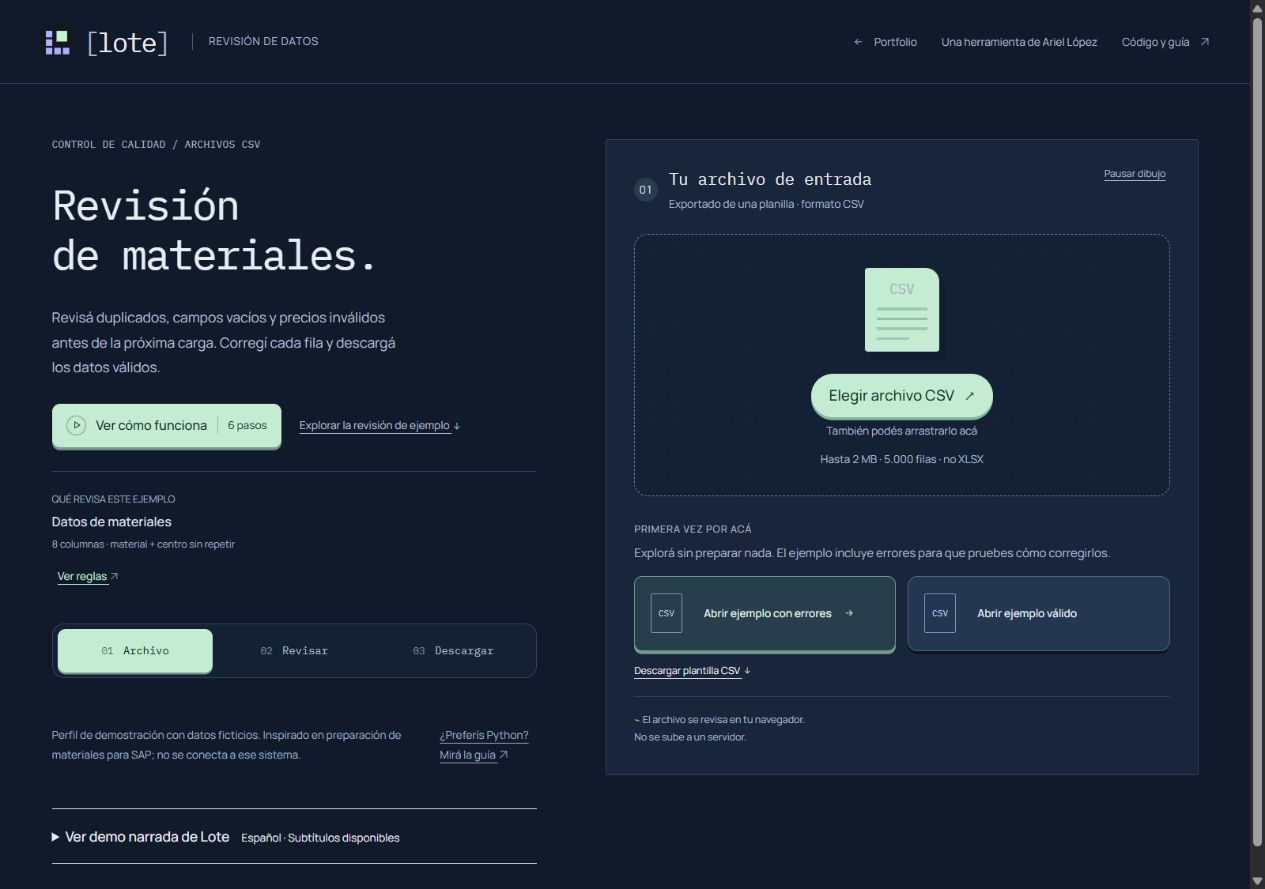
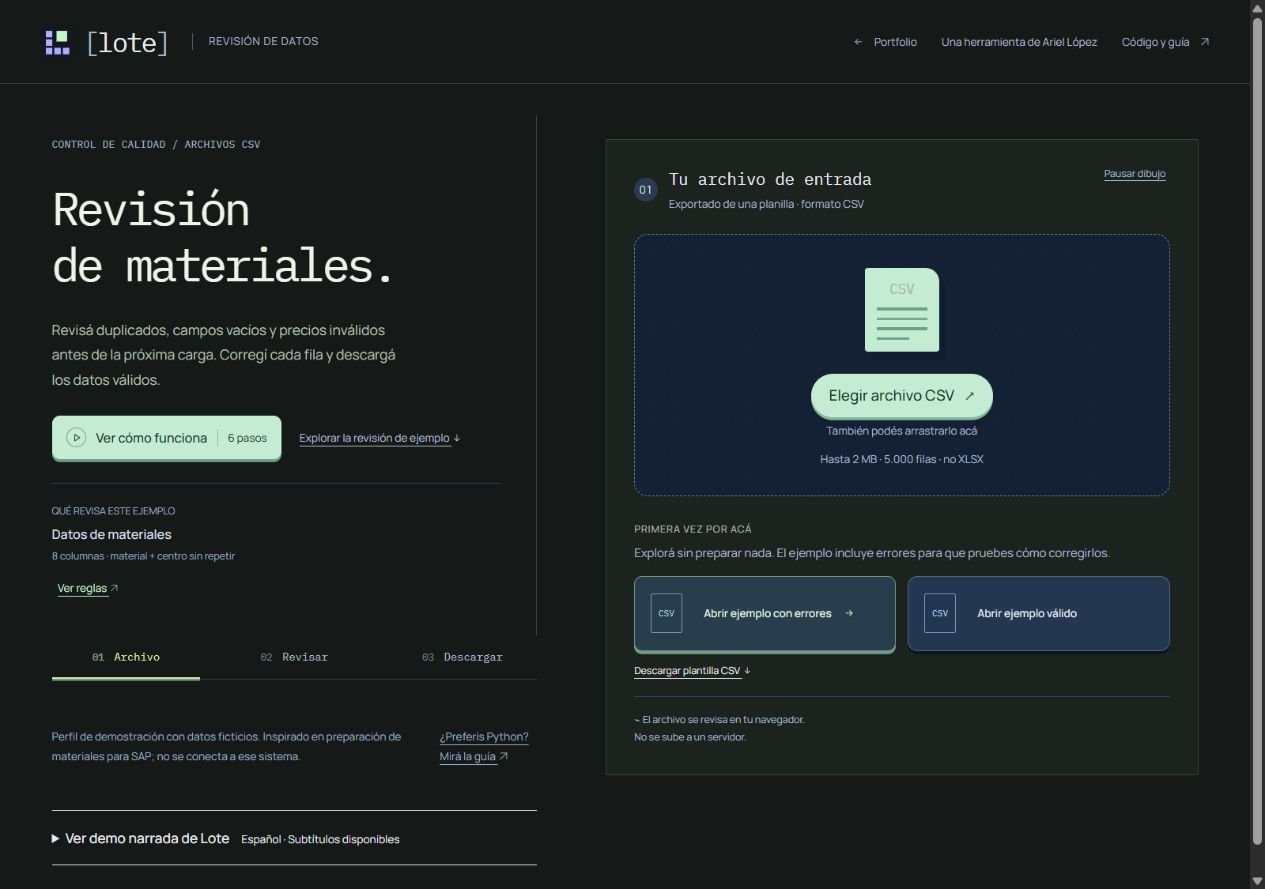
Give file inspection a charcoal and green workspace (#22)

diff --git a/product.css b/product.css
@@ -967,3 +967,103 @@ h3 {
     transform: none;
   }
 }
+
+/* File inspection: a neutral tool canvas, not an order dashboard. */
+:root,
+body {
+  background: #151917;
+  --ink: #e5e9df;
+  --muted: #a8b2a2;
+  --line: #3a443a;
+  --accent: #d0edac;
+}
+header {
+  background: #151917;
+  border-color: #3a443a;
+}
+body[data-review-step='upload'] .intro {
+  border-right: 1px solid #3a443a;
+  padding-right: 36px;
+}
+.intro h1 {
+  font-size: clamp(32px, 3.7vw, 49px);
+  letter-spacing: -0.075em;
+  color: #eff3e8;
+}
+.intro-explanation {
+  color: #b8c0b3;
+}
+.flow-nav {
+  background: transparent;
+  border: 0;
+  border-bottom: 1px solid #3a443a;
+  border-radius: 0;
+  padding: 0;
+  gap: 20px;
+}
+.flow-nav > button {
+  border-radius: 0;
+  padding: 14px 4px;
+  border-bottom: 2px solid transparent;
+}
+.flow-nav > button[aria-current='step'] {
+  background: transparent;
+  border-bottom-color: #d0edac;
+  color: #d0edac;
+}
+.upload-panel,
+.results-panel,
+.export-stage {
+  background: #1c221e;
+  border-color: #3a443a;
+  border-radius: 2px;
+  box-shadow: none;
+}
+.dropzone {
+  background: #151917;
+  border: 1px dashed #687b60;
+  border-radius: 0;
+}
+.sample-buttons button {
+  border-radius: 0;
+  background: #293329;
+  border-color: #4c5c46;
+  box-shadow: none;
+}
+.sample-buttons button::before {
+  background: #d0edac;
+  color: #202b1b;
+  border-radius: 0;
+}
+.batch-visual {
+  gap: 3px;
+}
+.batch-row {
+  border-radius: 0;
+}
+.batch-ready {
+  background: #243a25;
+  color: #d0edac;
+}
+.batch-blocked {
+  background: #422b28;
+  color: #efb09b;
+}
+.issues-table th {
+  font:
+    10px PlexMono,
+    monospace;
+  text-transform: uppercase;
+  letter-spacing: 0.06em;
+}
+@media (min-width: 1000px) {
+  body:not([data-review-step='upload']) main {
+    max-width: 1440px;
+  }
+}
+@media (max-width: 700px) {
+  body[data-review-step='upload'] .intro {
+    border: 0;
+    padding-right: 0;
+  }
+}

diff --git a/index.html b/index.html
@@ -19,15 +19,15 @@
     <link rel="stylesheet" href="style.css?v=20261101-type-1" />
     <link rel="stylesheet" href="tutorial.css?v=20261101-type-1" />
     <link rel="stylesheet" href="identity.css?v=20261101-type-1" />
-    <script type="module" src="src/app.js?v=20261101-controls-1"></script>
-    <link rel="stylesheet" href="direction.css?v=20261101-controls-1" />
+    <script type="module" src="src/app.js?v=20261101-editorial-1"></script>
+    <link rel="stylesheet" href="direction.css?v=20261101-editorial-1" />
     <link rel="stylesheet" href="video.css?v=20261101-type-1" />
-    <script type="module" src="src/brand-motion.js?v=20261101-controls-1"></script>
-    <link rel="stylesheet" href="brand-lab.css?v=20261101-controls-1" />
-    <script type="module" src="src/brand-lab.js?v=20261101-controls-1"></script>
-    <link rel="stylesheet" href="workspace.css?v=20261101-controls-1" />
-    <link rel="stylesheet" href="product.css?v=20261101-controls-1" />
-    <script type="module" src="src/interface-motion.js?v=20261101-controls-1"></script>
+    <script type="module" src="src/brand-motion.js?v=20261101-editorial-1"></script>
+    <link rel="stylesheet" href="brand-lab.css?v=20261101-editorial-1" />
+    <script type="module" src="src/brand-lab.js?v=20261101-editorial-1"></script>
+    <link rel="stylesheet" href="workspace.css?v=20261101-editorial-1" />
+    <link rel="stylesheet" href="product.css?v=20261101-editorial-1" />
+    <script type="module" src="src/interface-motion.js?v=20261101-editorial-1"></script>
   </head>
   <body>
     <a class="skip" href="#main">Saltar al contenido</a>
